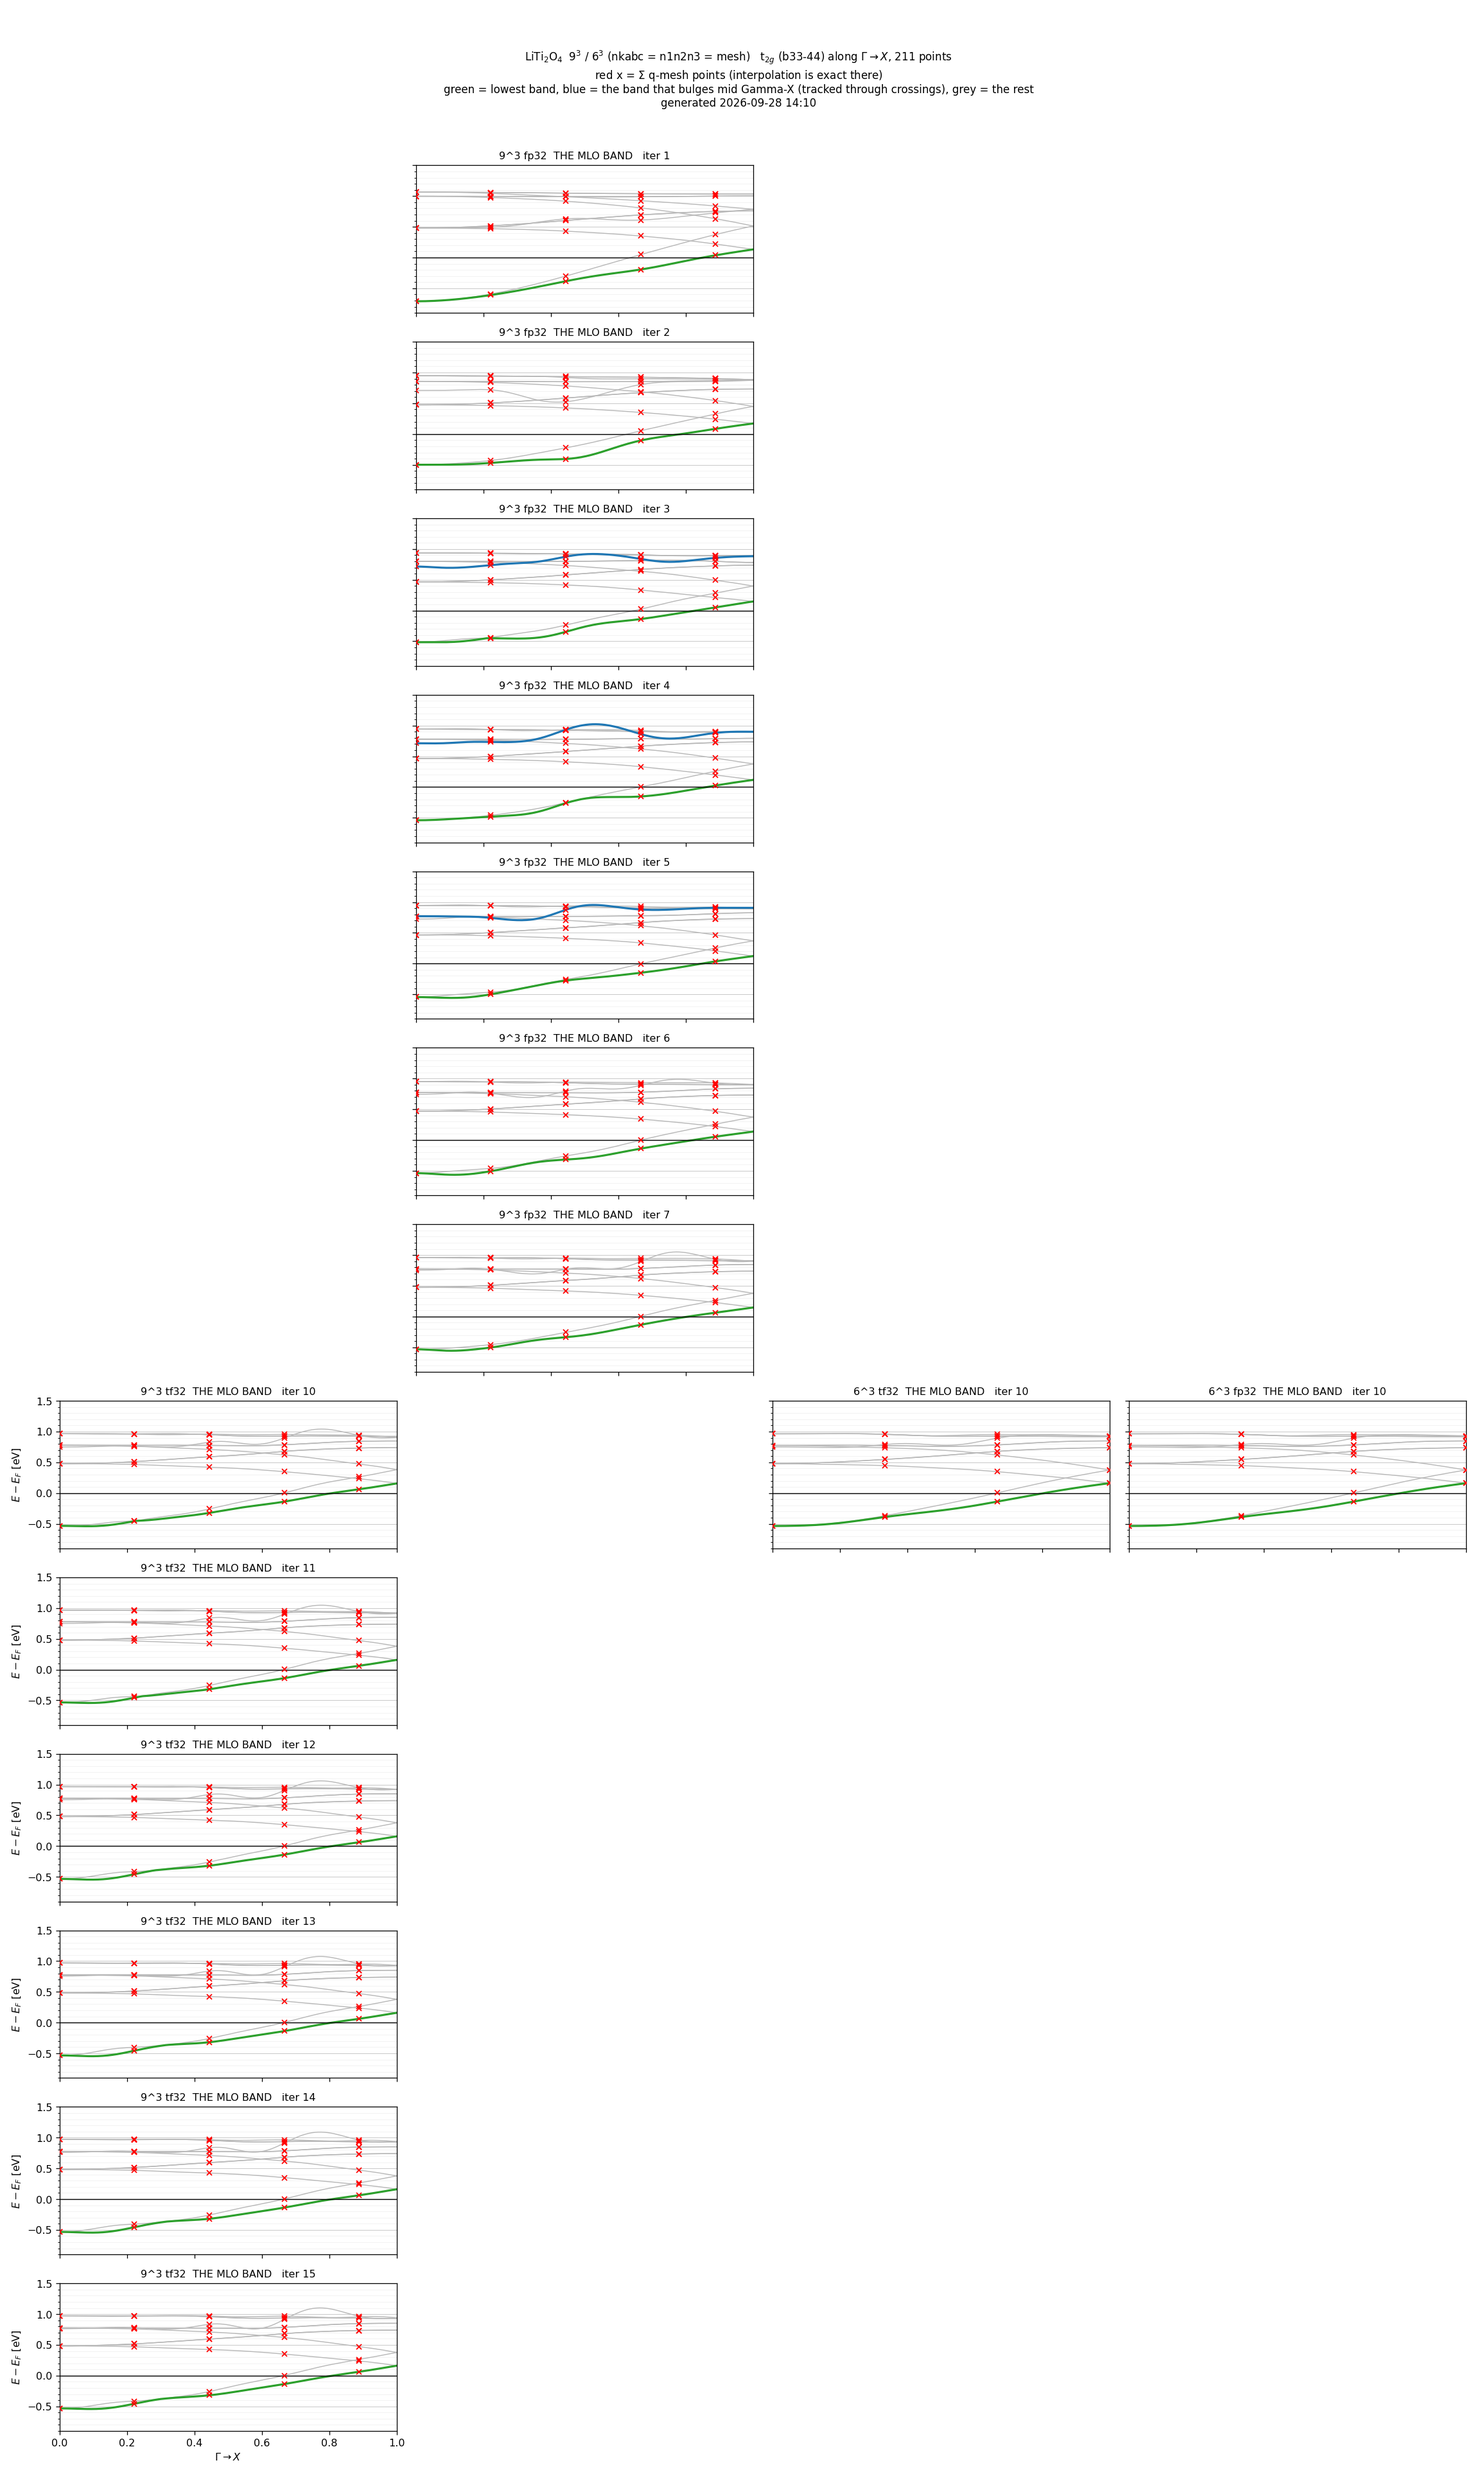
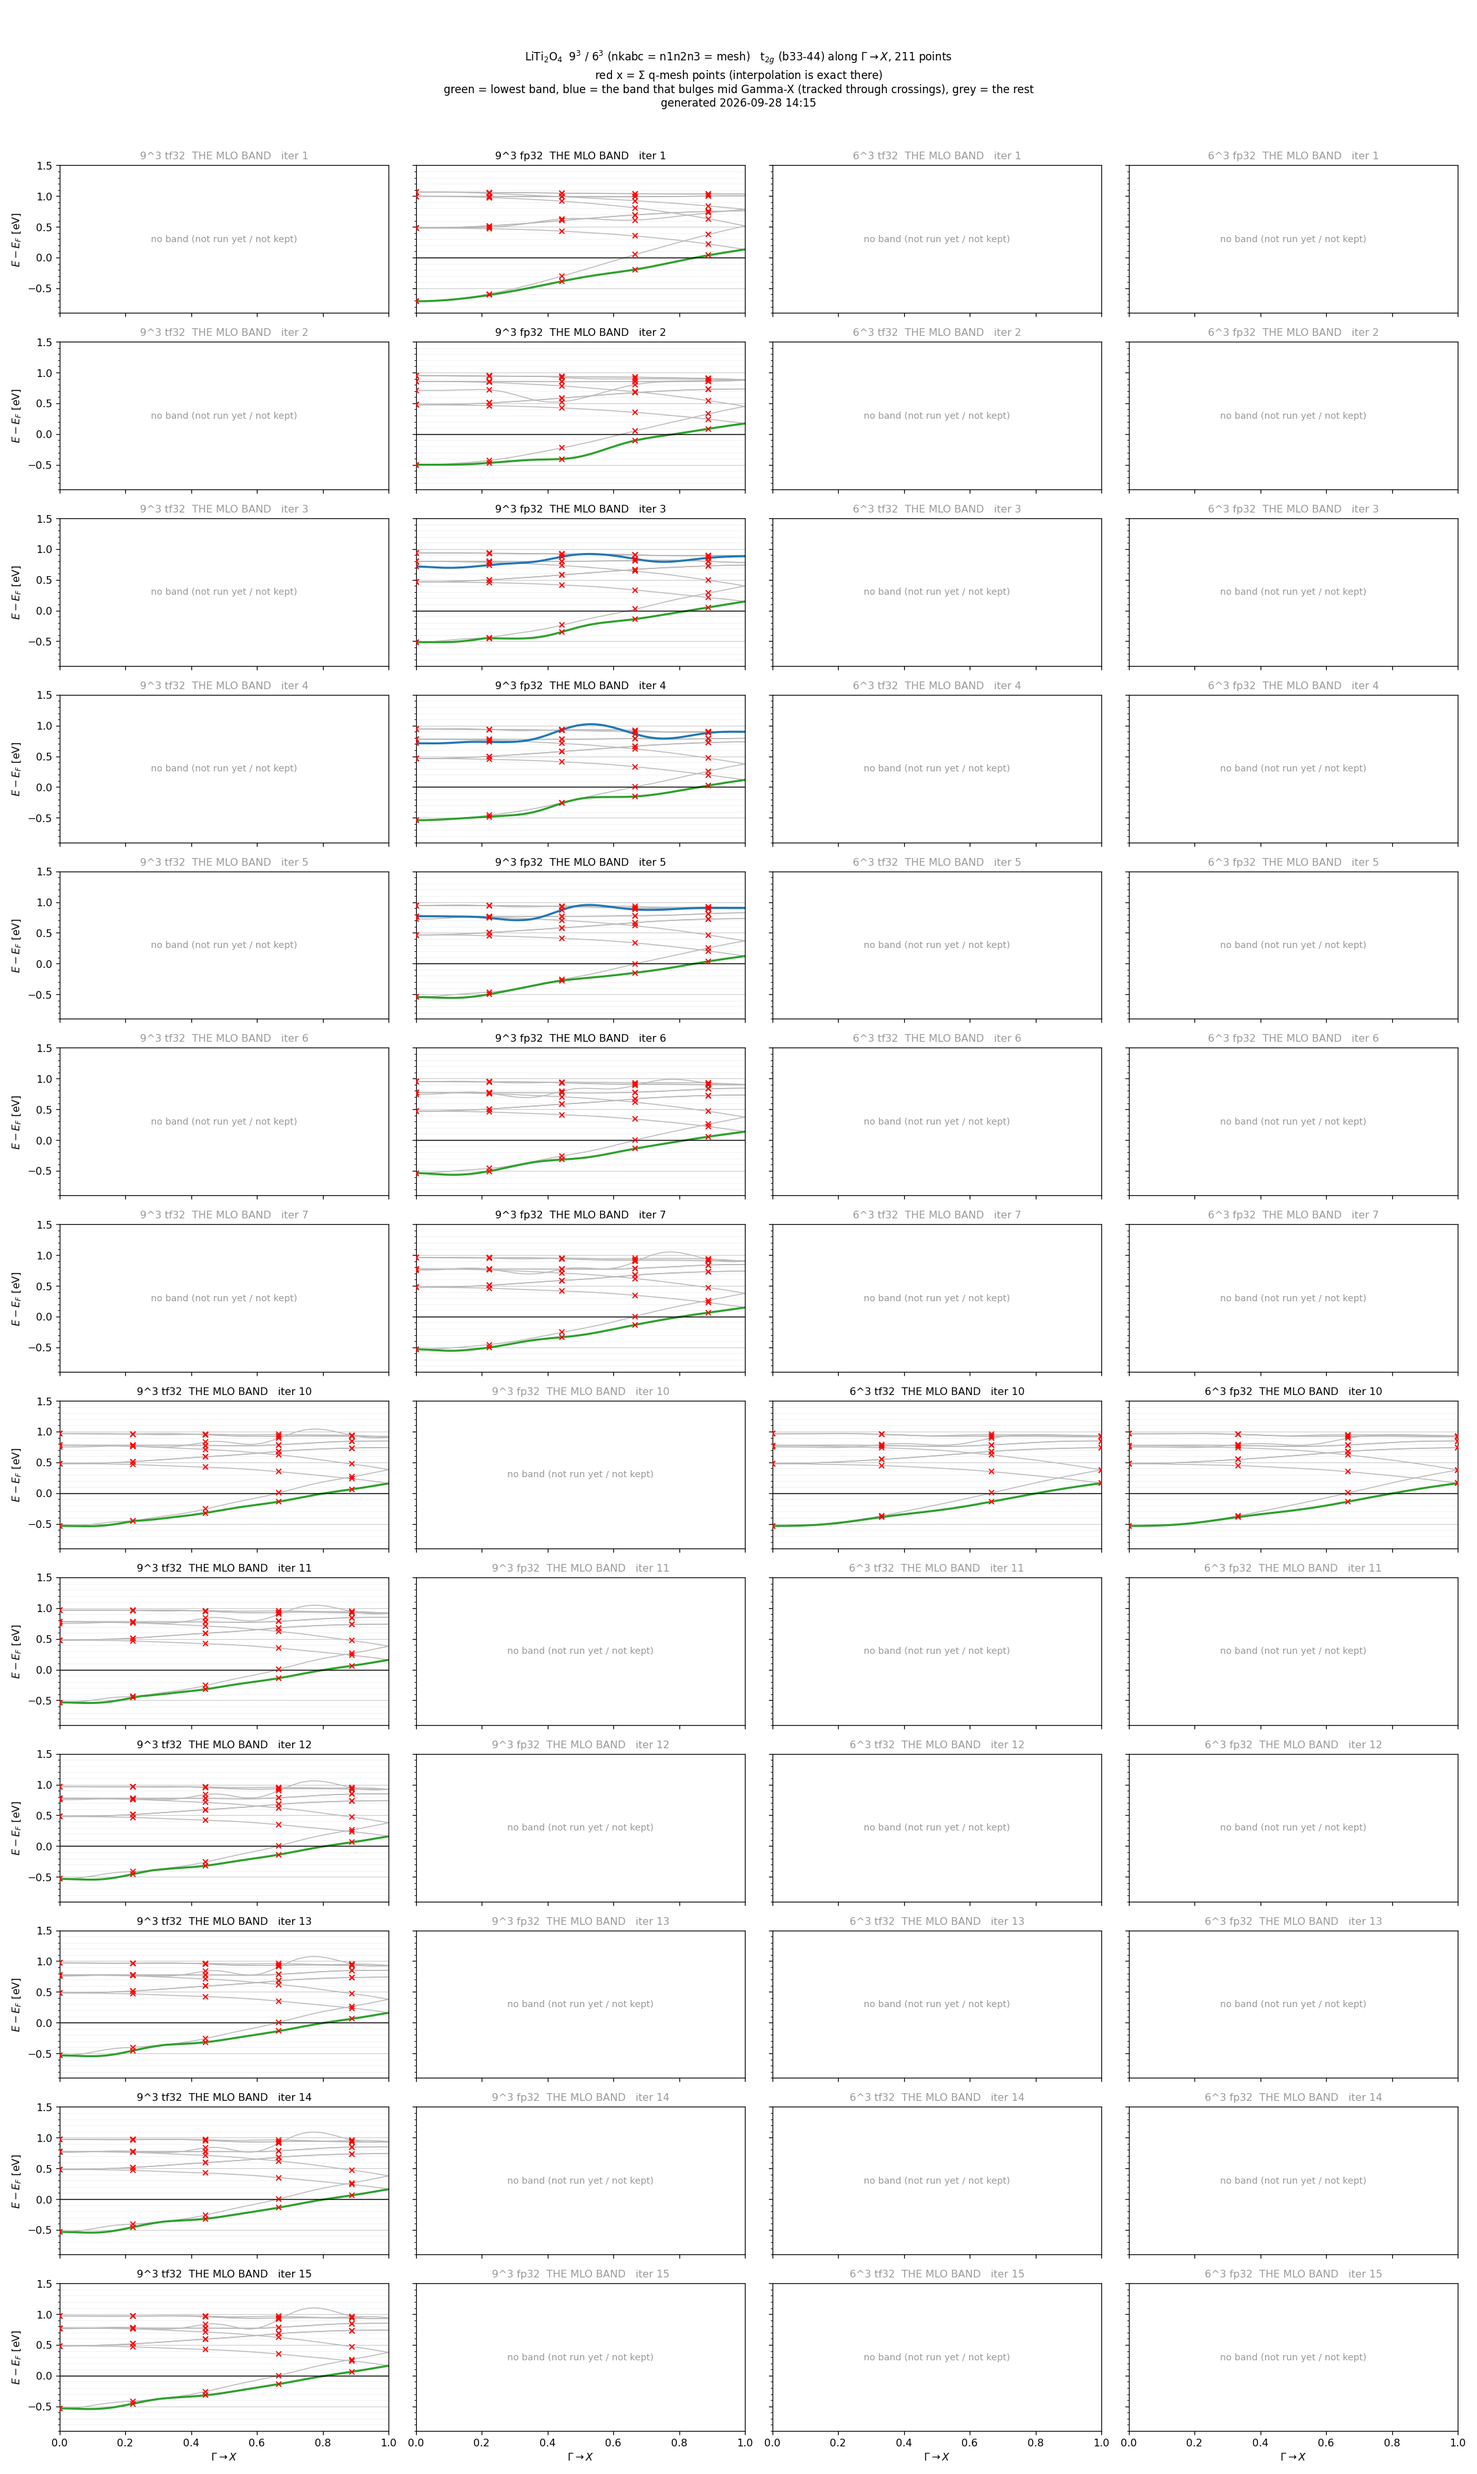
mlo_rows.py: EMPTY=frame draws a missing panel as an empty frame, so that the columns stay aligned when the runs have different iterations

diff --git a/Samples/kBT/LiTi2O4/mlo_rows.py b/Samples/kBT/LiTi2O4/mlo_rows.py
@@ -77,7 +77,17 @@ for r, it in enumerate(iters):
     for c, (lab, d, col) in enumerate(COLS):
         ax = AX[r][c]; f = path(d, it)
         if not os.path.exists(f):
-            ax.axis('off'); continue
+            ## EMPTY=frame: an empty frame with the same axes, so that the columns stay aligned when runs
+            ## have different iterations (2026-09-28, user: the figure looked shifted); default: no frame
+            if os.environ.get('EMPTY', 'off') == 'frame':
+                ax.set_ylim(-0.9, 1.5); ax.set_xlim(0, 1)
+                ax.set_title(f'{lab}   iter {it}', fontsize=10, color='0.6')
+                ax.text(0.5, 0.5, 'no band (not run yet / not kept)', transform=ax.transAxes, ha='center', va='center',
+                        color='0.6', fontsize=9)
+                ax.yaxis.set_major_locator(MultipleLocator(0.5))
+            else:
+                ax.axis('off')
+            continue
         x, E = rd(f); S = np.sort(E[LO:HI], axis=0); store[(c, it)] = S
         if HILITE and it > 0:
             T = track(S); bb = bulger(T, x)
